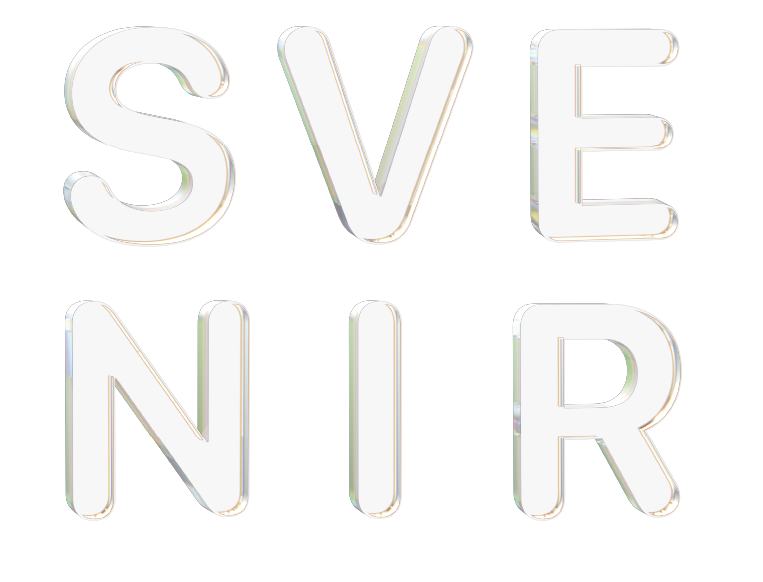
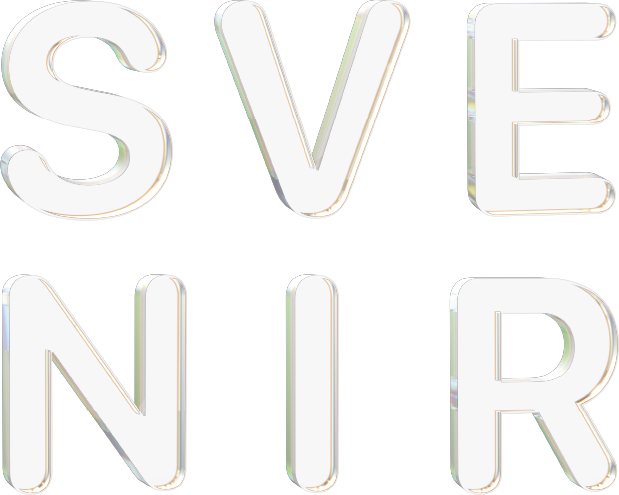
add img and css to dive page

diff --git a/dive.html b/dive.html
@@ -5,43 +5,52 @@ title: EVERLASTING MEMORIES BUILT WITH PEACE AND WONDER
 
 {%- assign d = site.data.dive -%}
 
-<div class="menu">
-  {%- for i in d.menu -%}
-    <div class="menu_item">
-      <p>{{i.descr}}</p>
-      <a href="{{i.link}}">{{i.name}}</a>
+<div class="page__dive">
+  <div class="dive__wrapper">
+    <div class="menu">
+      {%- for i in d.menu -%}
+        <div class="menu_item">
+          <p>{{i.descr}}</p>
+          <a href="{{i.link}}">{{i.name}}</a>
+        </div>
+      {%- endfor -%}
+      <a href="{{d.menu_cta.link}}" class="cta">{{d.menu_cta.label}}</a>
     </div>
-  {%- endfor -%}
-  <a href="{{d.menu_cta.link}}" class="cta">{{d.menu_cta.label}}</a>
-</div>
-
-<h1>{{page.title}}</h1>
-
-{%- for s in d.sections -%}
-  <div class="section">
-    <div class="info">
-      <p>{{s.intro}}</p>
-      <h2>{{s.title}}</h2>
-      {%- if s.text -%}
-      <div class="text">
-        {{s.text | markdownify }}
-      </div>
-      {%- endif -%}
-      {%- if s.cta -%}
-        <a href="{{s.cta.link}}">{{s.cta.label}}</a>
-      {%- endif -%}
+    <div class="dive__svenir-img">
+      <img src="/assets/images/transparent_text_svenir.png" alt="svenir">
     </div>
-    <div class="image">
-      <img src="{{s.image}}" alt="{{s.title}}">
-    </div>
-  </div>
-{%- endfor -%}
-
-<div class="cards_grid">
-    {%- for c in d.cards -%}
-      <div class="card_item">
-        <img src="{{c.image}}" alt="{{c.name}}">
-        <caption>{{c.name}}</caption>
+    
+    <h1>{{page.title}}</h1>
+    
+    {%- for s in d.sections -%}
+      <div class="section">
+        <div class="info">
+          <p>{{s.intro}}</p>
+          <h2>{{s.title}}</h2>
+          {%- if s.text -%}
+          <div class="text">
+            {{s.text | markdownify }}
+          </div>
+          {%- endif -%}
+          {%- if s.cta -%}
+            <a href="{{s.cta.link}}">{{s.cta.label}}</a>
+          {%- endif -%}
+        </div>
+        <div class="image">
+          <img src="{{s.image}}" alt="{{s.title}}">
+        </div>
       </div>
     {%- endfor -%}
+    <div class="dive__spesial-text">
+      <img src="/assets/images/special_text.png" alt="special text">
+    </div>
+    <div class="cards_grid">
+        {%- for c in d.cards -%}
+          <div class="card_item">
+            <img src="{{c.image}}" alt="{{c.name}}">
+            <caption>{{c.name}}</caption>
+          </div>
+        {%- endfor -%}
+    </div>
+  </div>
 </div>

diff --git a/_sass/dive.scss b/_sass/dive.scss
@@ -1,0 +1,85 @@
+.page__dive{
+    background-image: url(/assets/images/background3.png);
+    background-repeat: repeat-y;
+    background-size: 160%;
+    background-position: -1100px -50px;
+
+    .dive__wrapper{
+        max-width: 1440px;
+        margin: 0 auto;
+
+        
+        .menu {
+            display: grid;
+            grid-template-columns: 100px 130px 200px 1010px;
+            column-gap: 85px;
+            margin-top: 80px;
+            
+            .menu_item {
+                p{
+                    font-size: 20px;
+
+                }
+                a{
+                    font-size: 20px;
+                    font-weight: 900;
+                }
+
+            }
+            .cta {
+                max-width: 235px;
+                font-size: 25px;
+                border: 1px solid black;
+                border-radius: 50px;
+                padding: 15px 20px;
+                text-align: center;
+            }
+        }
+        .dive__svenir-img{
+            img{
+                margin-top: 15px;
+                width: 100%;
+                text-align: left;
+            }
+        }
+        h1{
+            width: 400px;
+            margin: 0 auto 100px;
+            font-size: 20px;
+            text-align: center;
+            line-height: 1.2;
+            font-weight: 300;
+        }
+
+
+        .section {
+
+            .info {
+                p{
+                    font-size: 20px;
+                    font-weight: 900;
+                }
+                h2{
+                    font-size: 80px;
+                }
+            }
+            .text {
+            }
+
+        }
+
+        .image {
+        }
+        .dive__spesial-text{
+            img{
+                width: 50%;
+            }
+
+        }
+        .cards_grid {
+        }
+        .card_item {
+        }
+
+    }
+}

diff --git a/index.html b/index.html
@@ -10,21 +10,21 @@ cta_link: /dive/
 cta_description: and BE PART OF THE SOUVENIR REVOLUTION!
 ---
 
-<div class="page__wrapper">
-  <div class="page__row" >
-    <div class="page__content">
-      <div class="page__line">
-        <img class="page__arrow" src="/assets/images/line.png" alt="arrow">
+<div class="frontpage__wrapper">
+  <div class="frontpage__row" >
+    <div class="frontpage__content">
+      <div class="frontpage__line">
+        <img class="frontpage__arrow" src="/assets/images/line.png" alt="arrow">
       </div>
       <h1>{{page.title}}</h1>
       <h2>{{page.subtitle}}</h2>
       <p>{{page.descr}}</p>
     </div>
-    <img class="page__circle" src="/assets/images/circle.png" alt="circle decoration">
+    <img class="frontpage__circle" src="/assets/images/circle.png" alt="circle decoration">
 
   </div>
 
-  <div class="page__card">
+  <div class="frontpage__card">
     <div class="card__row">
       <img class="card__img" src="{{page.card_image}}" alt="angel">
       <div class="shadow"></div>
@@ -33,7 +33,7 @@ cta_description: and BE PART OF THE SOUVENIR REVOLUTION!
       </div>
     </div>
   </div>
-  <div class="page__button">
+  <div class="frontpage__button">
     <div class="btn__decoration">
       <img src="/assets/images/piramid.png" alt="">
     </div>

diff --git a/_sass/front-page.scss b/_sass/front-page.scss
@@ -1,13 +1,13 @@
-.page__wrapper {
+.frontpage__wrapper {
     max-width: 1440px;
     margin: 0 auto;
 
-    .page__row{
+    .frontpage__row{
         position: relative;
-        .page__arrow{
+        .frontpage__arrow{
             width: 50%;
         }
-        .page__content {
+        .frontpage__content {
             position: absolute;
             padding-left: 5%;
             z-index: 100;
@@ -37,7 +37,7 @@
                 font-size: 25px;
             }
         }
-        .page__circle{
+        .frontpage__circle{
             transform: translate(-213px, -261px);
             z-index: -1000;
             position: relative;
@@ -54,7 +54,7 @@
     }
 
 
-    .page__card {
+    .frontpage__card {
         max-width: 1440px;
         margin: 0 auto;
         text-align: center;
@@ -93,7 +93,7 @@
         }
 
     }
-    .page__button{
+    .frontpage__button{
         text-align: center;
         margin-top: -80px;
         position: relative;
